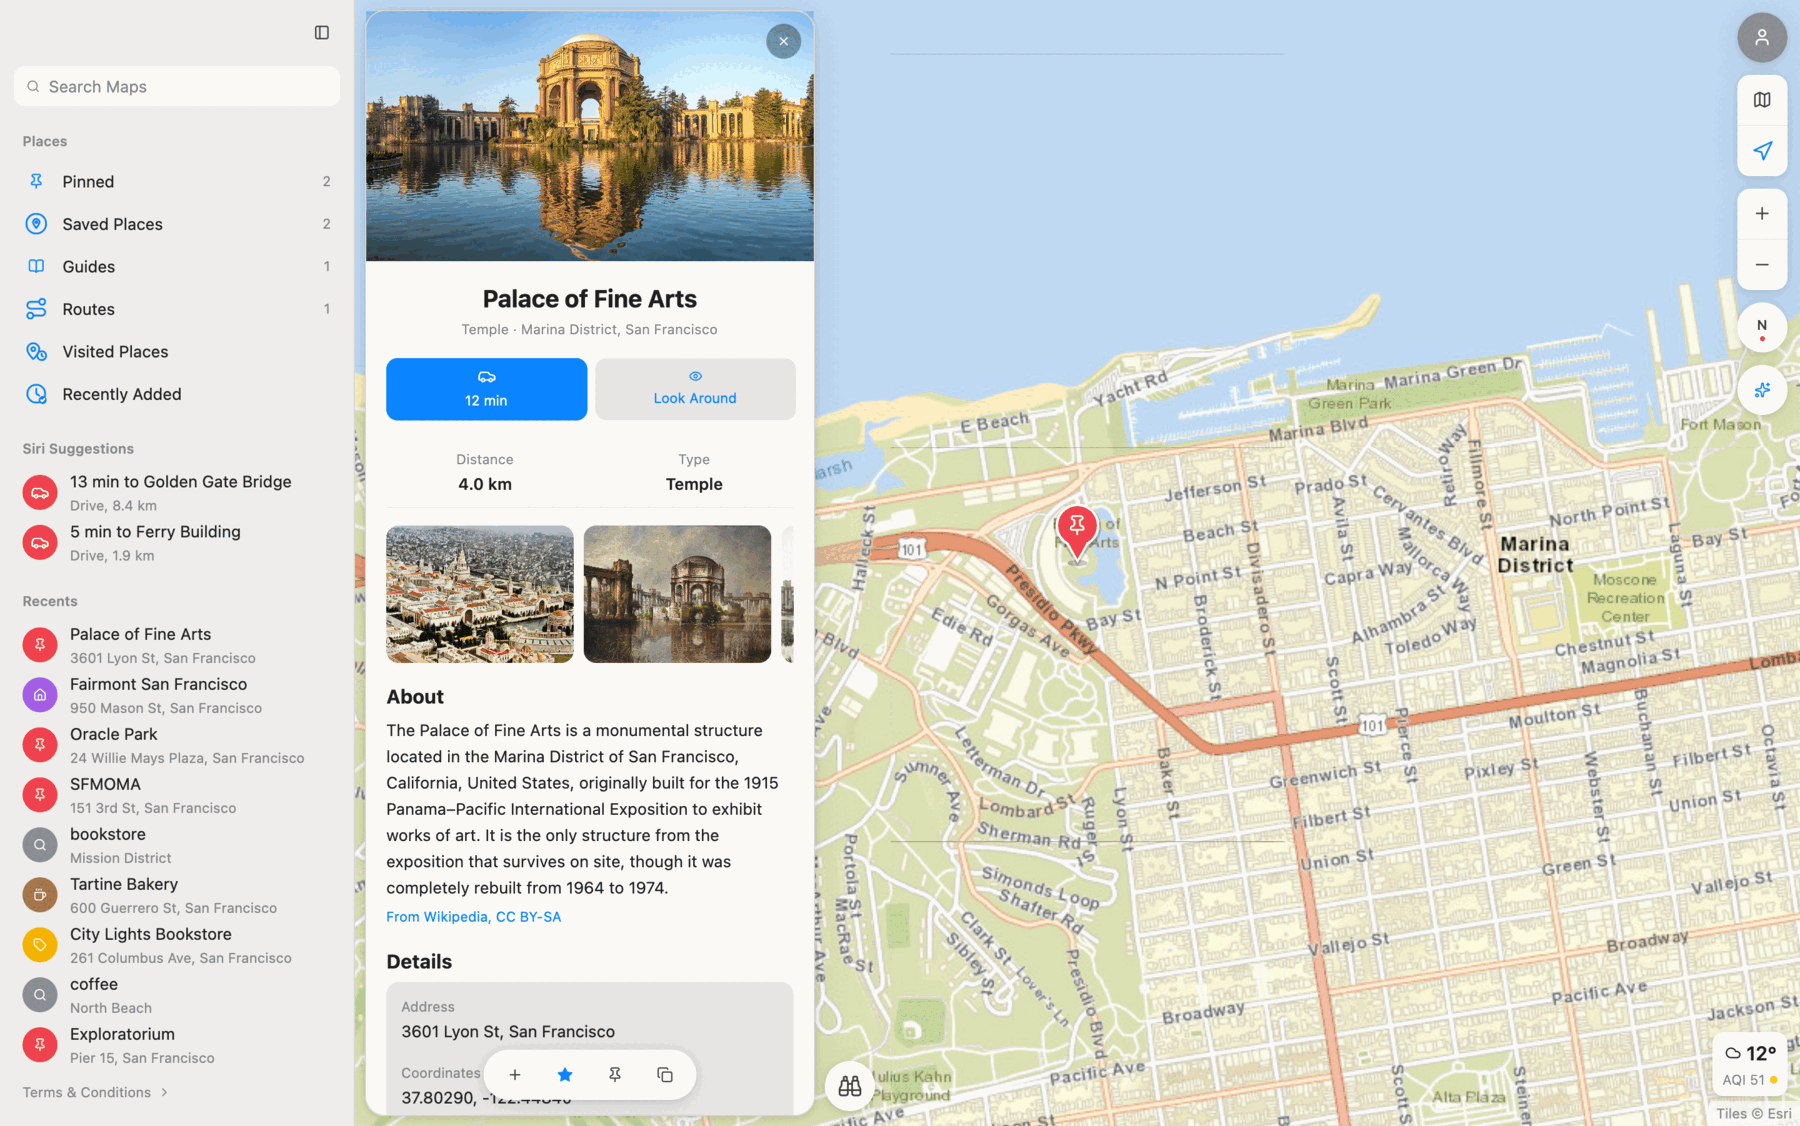
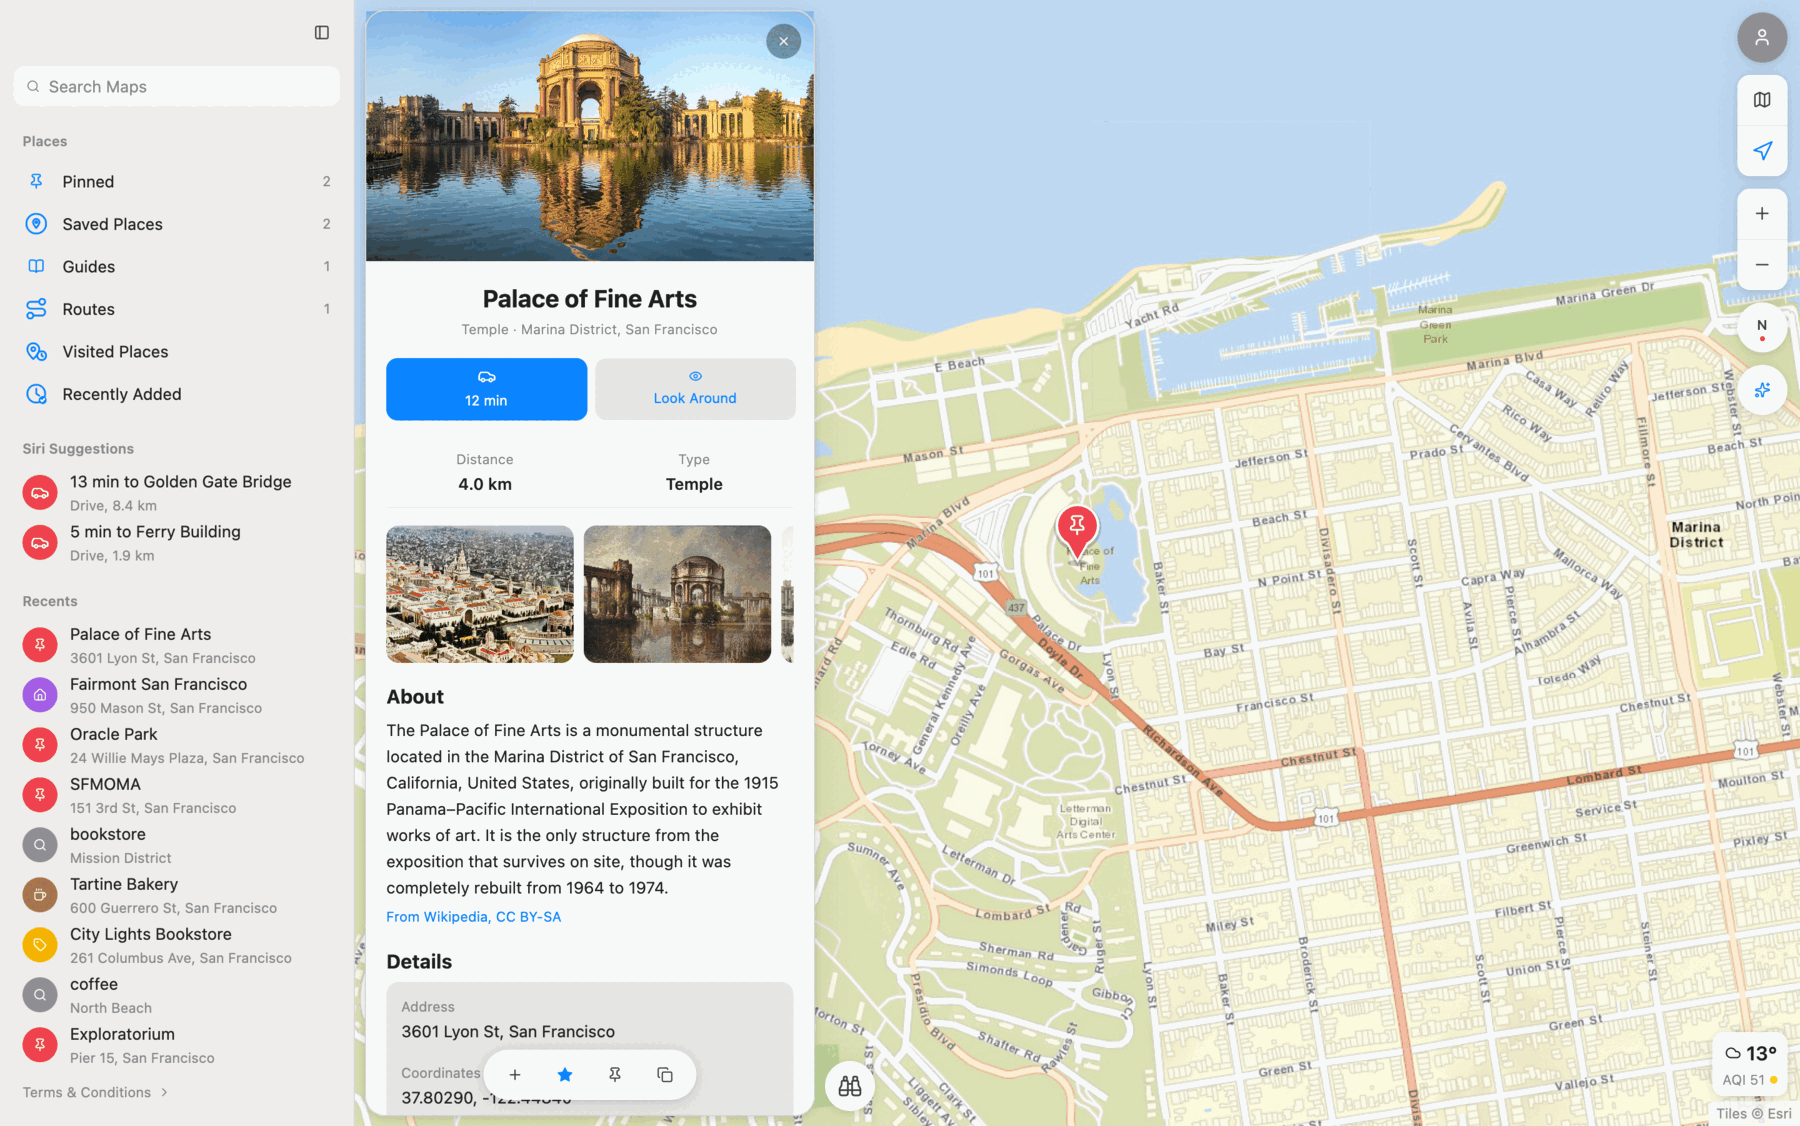
Open closer and use Moonframe's sharper tiles
Build on Moonframe with PR #98, which draws tiles without @2x sharply on
high-density screens. Their labels render smaller, so every launch, place
and locate-me now opens at zoom 15.8, where labels stay near full size,
and the zoom buttons step by one from where the map is.

diff --git a/crates/moonmap-core/src/library.rs b/crates/moonmap-core/src/library.rs
@@ -117,7 +117,7 @@ impl Default for Preferences {
             location: Coordinate::new(37.7880, -122.4075),
             located: false,
             center: Coordinate::new(37.7880, -122.4075),
-            zoom: 15.3,
+            zoom: 15.8,
             sidebar: true,
         }
     }

diff --git a/README.md b/README.md
@@ -142,8 +142,10 @@ an ACP mode, or Node for `npx`.
 - A Mac locates itself by Wi-Fi, usually to within 20 to 60 m. Maps.app
   reads the same service, so it isn't more precise; it may only have had
   a fix longer.
-- The tiles are raster and `ui.map` draws them flat, so there is no 3D, and
-  the **compass** always points north.
+- The tiles are raster and `ui.map` draws them flat, so there is no 3D. Their
+  labels are part of the image, so they shrink between zoom levels.
+- The **compass** button is not connected yet: it always shows north, and
+  clicking it does not turn the map back.
 - **Look Around** shows 360° panoramas from Panoramax, or from Mapillary with
   a token set in Map Styles. Panoramax has little outside France, so without
   a token many places show the button disabled: it needs a panorama within
